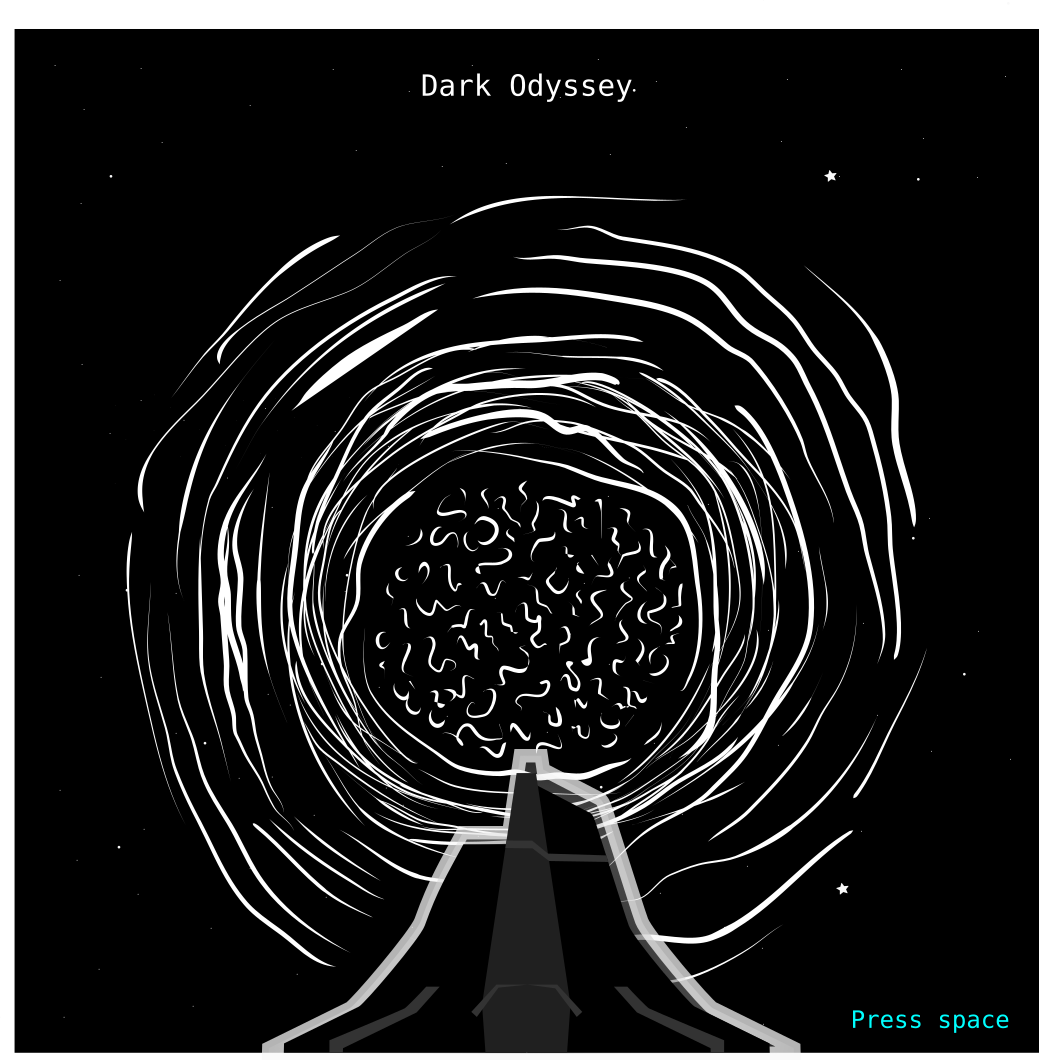
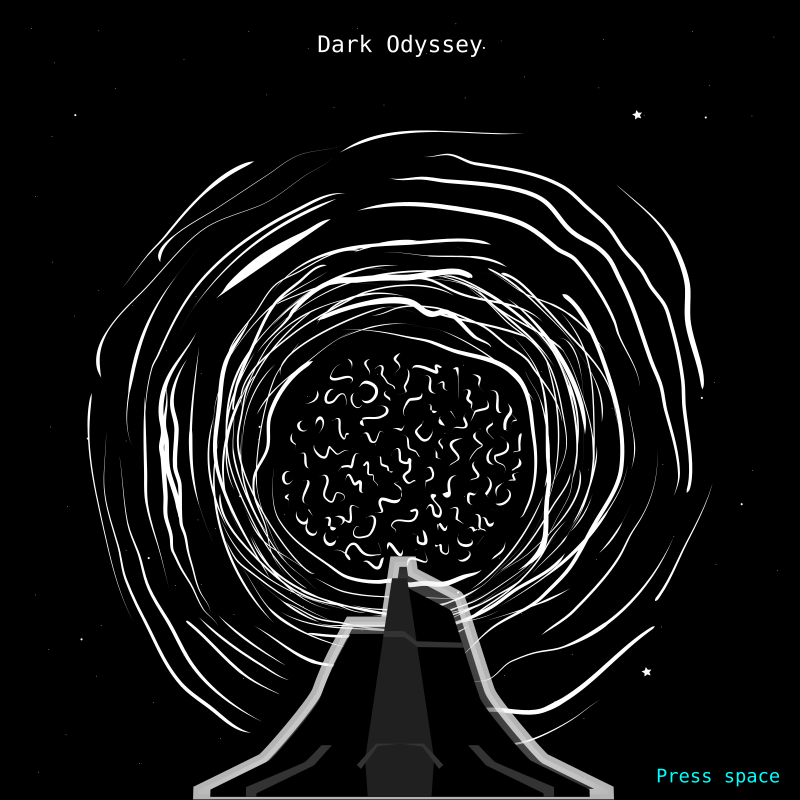
800x800

diff --git a/DarkOdyssey/modules/game_state.py b/DarkOdyssey/modules/game_state.py
@@ -9,8 +9,8 @@ class GameState(object):
         self.stage_height = 2048
 
         # viewport size - this is the size of the window that we see
-        self.viewport_width = 1024
-        self.viewport_height = 1024
+        self.viewport_width = 800
+        self.viewport_height = 800
         self.viewport_x = self.stage_width // 2  # centre of the stage
         self.viewport_y = self.stage_height // 2  # centre of the stage
         self.viewport_margin = 150  # margin to move the screen when player moves
